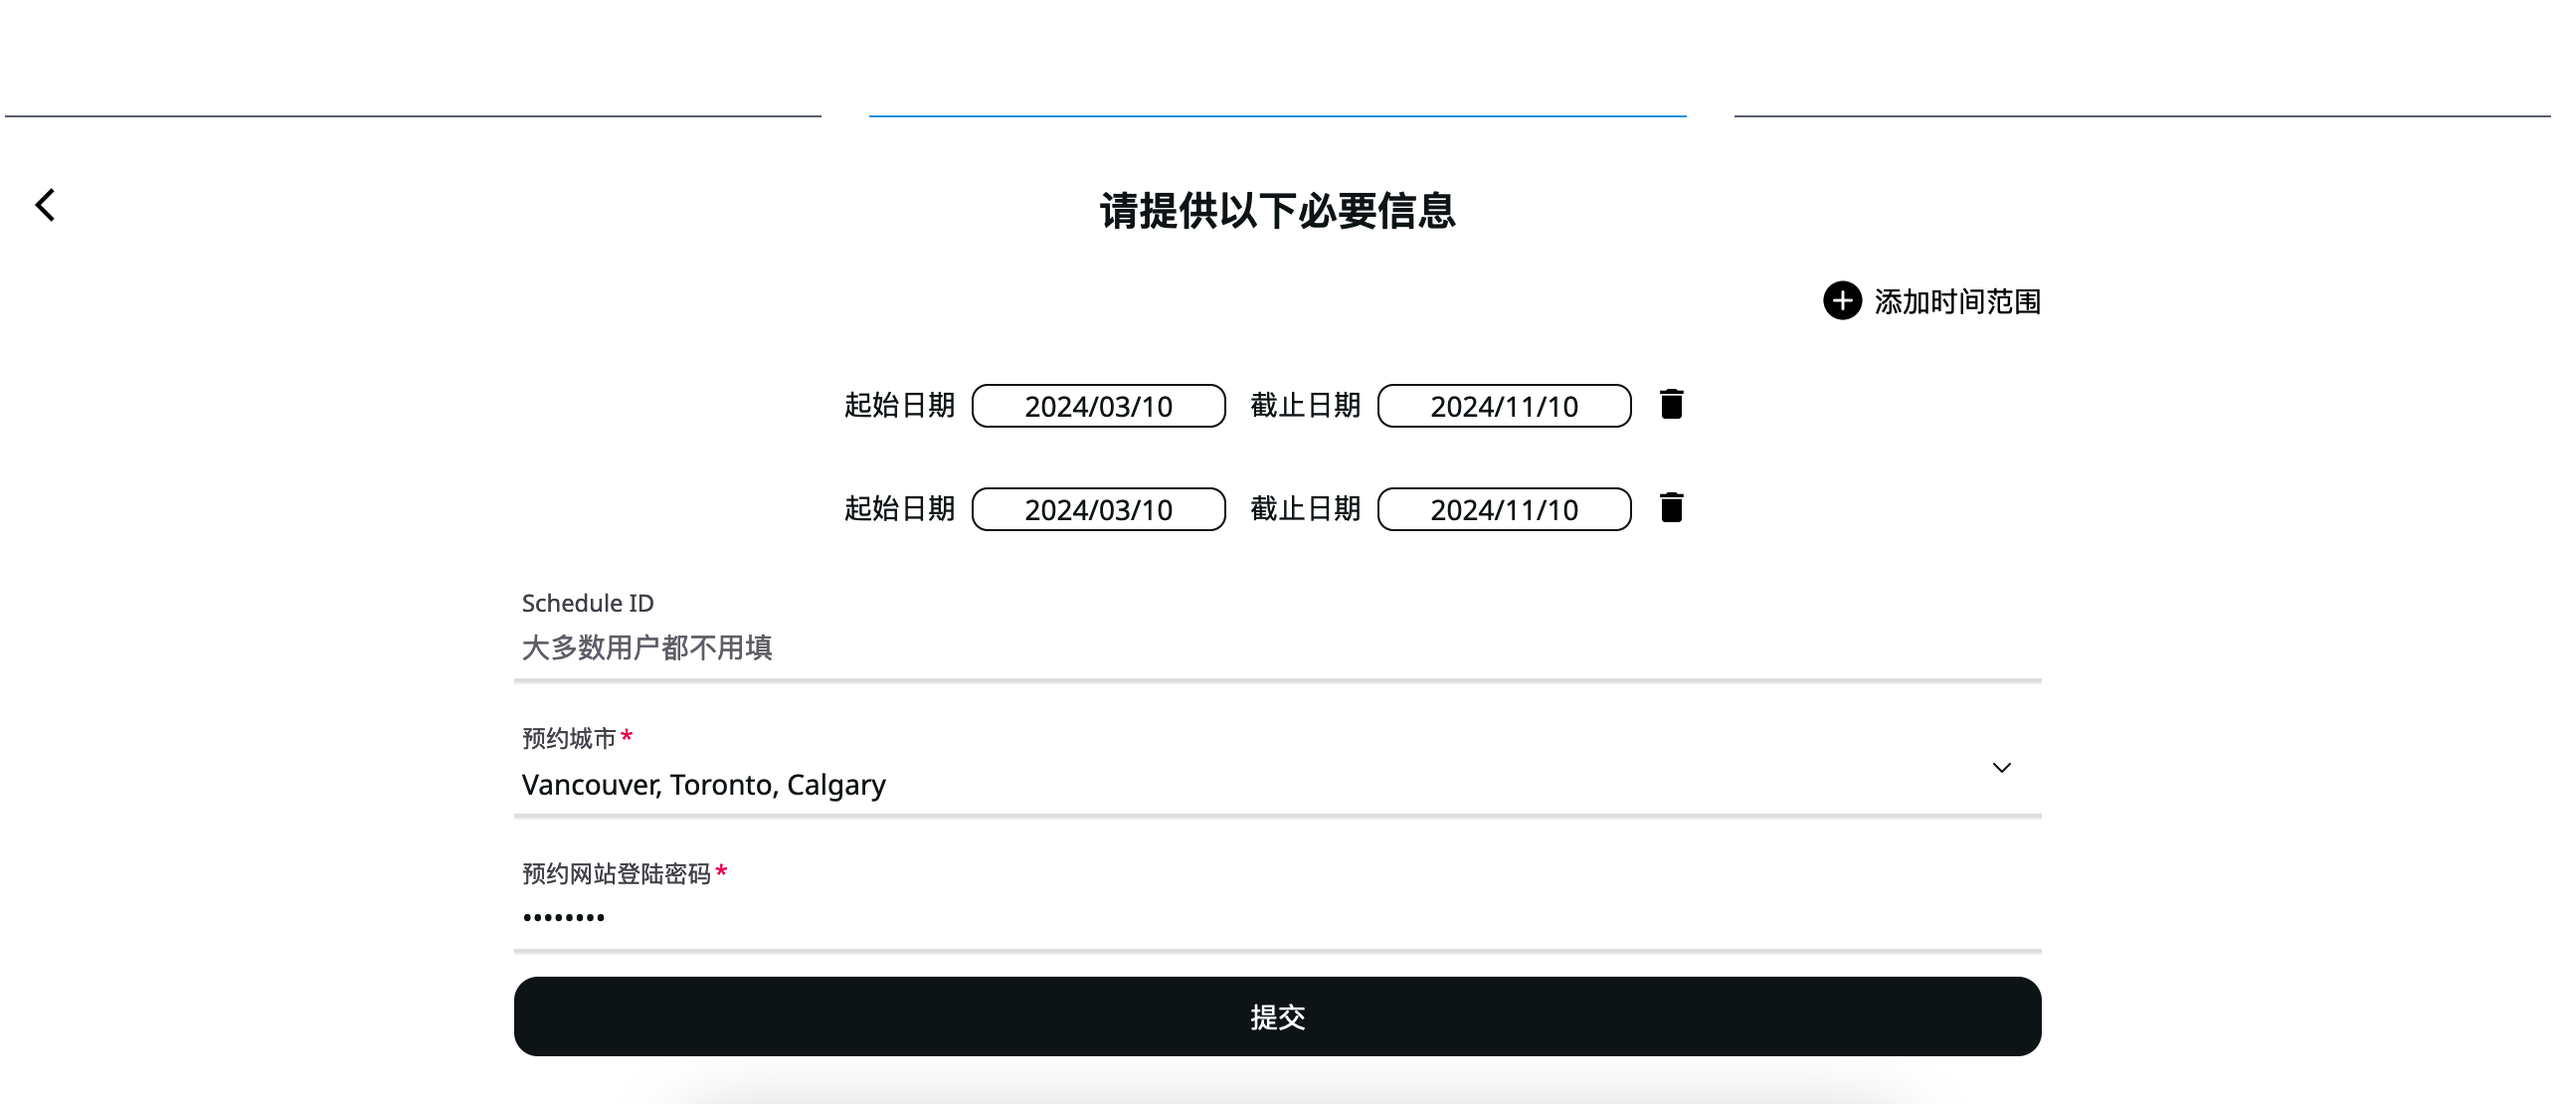
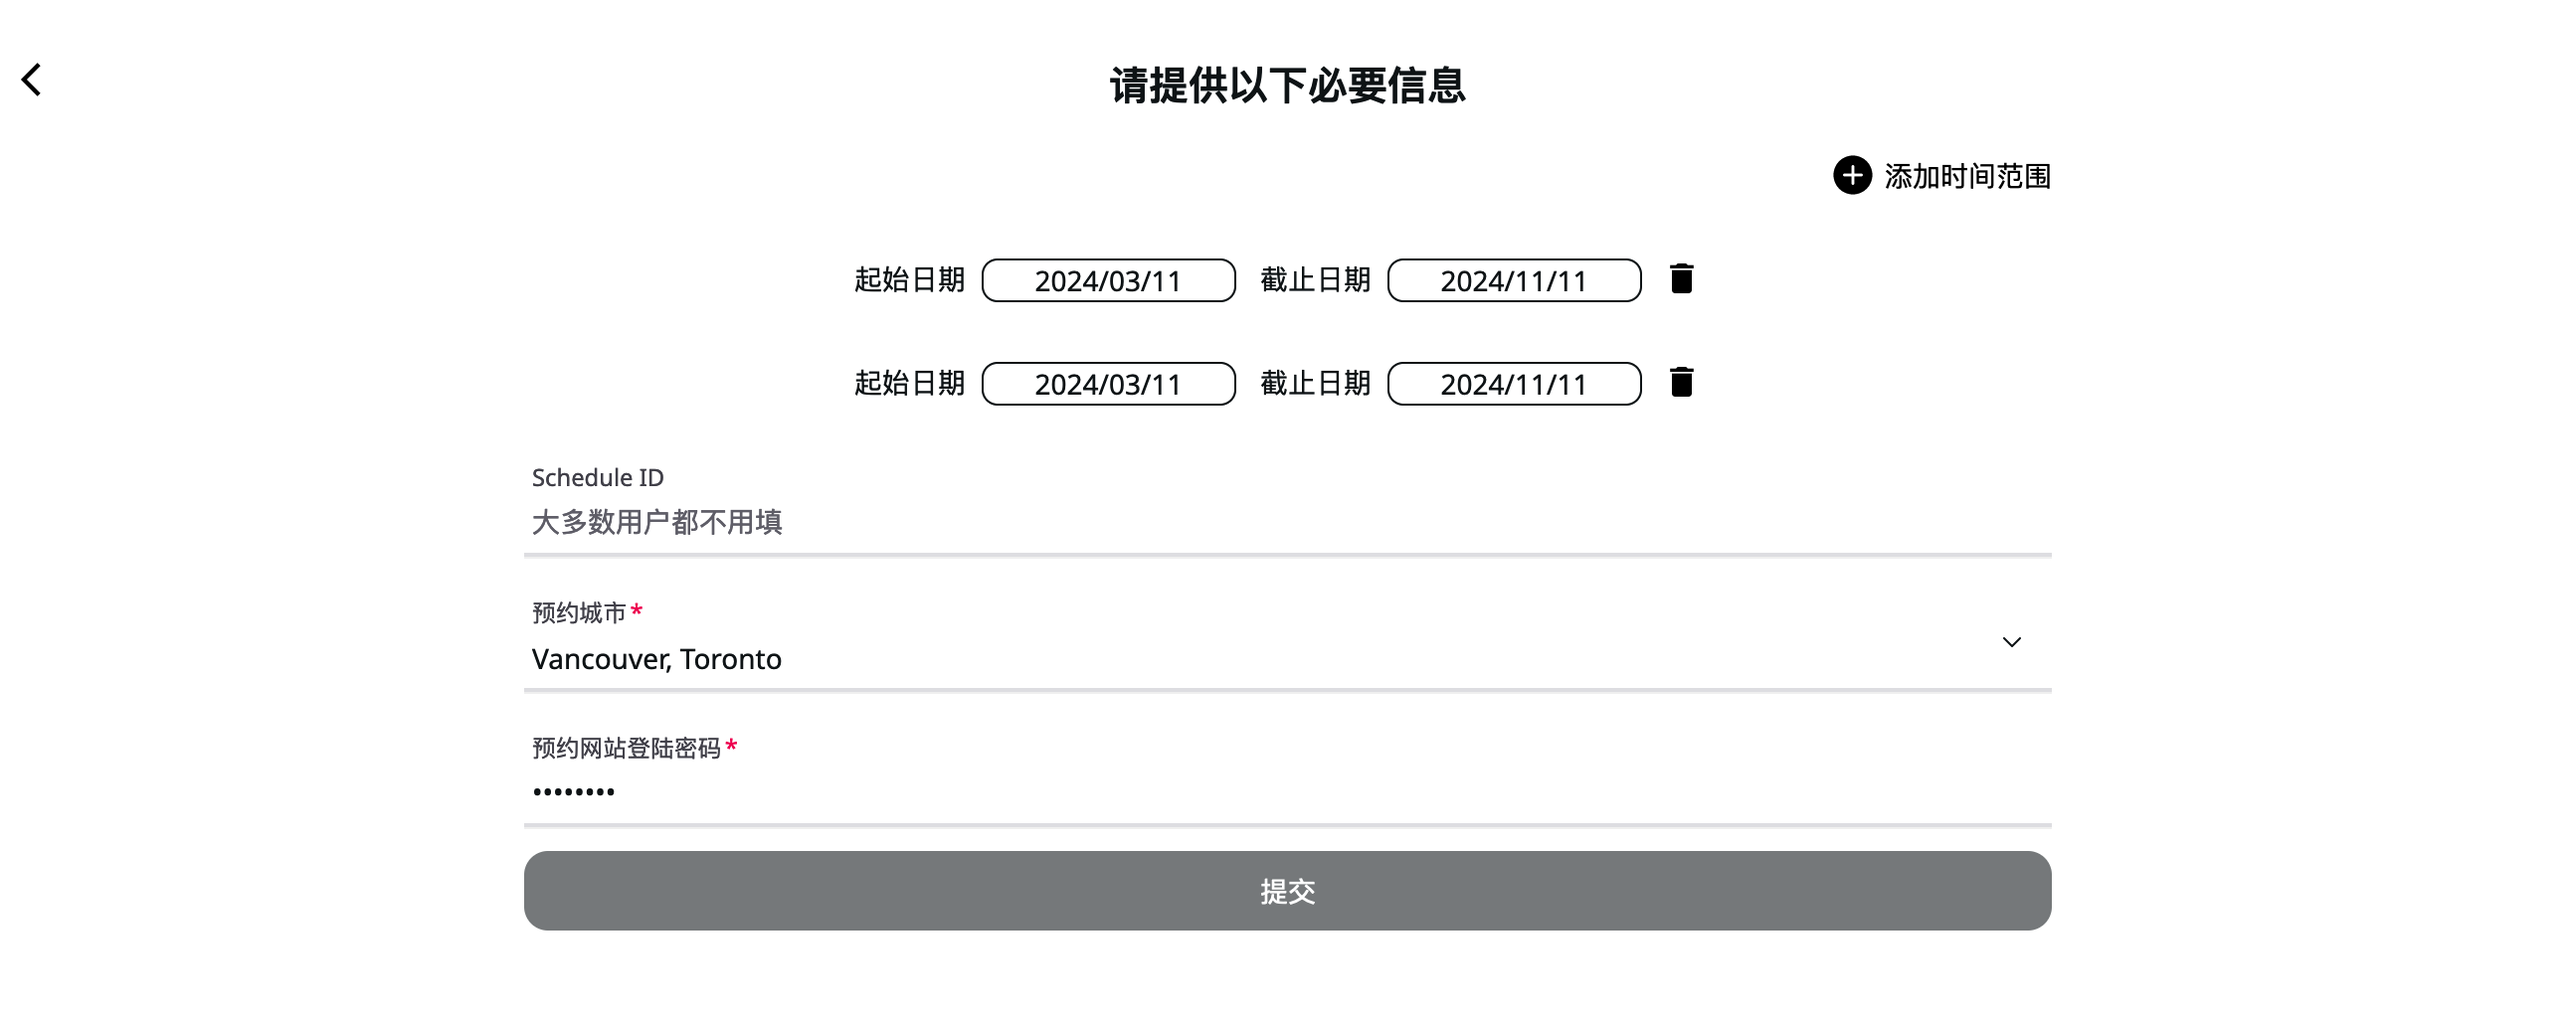
improved tutorial

diff --git a/frontend/src/components/Tutorial.jsx b/frontend/src/components/Tutorial.jsx
@@ -1,5 +1,5 @@
 export default function Tutorial({ variant }) {
-  const cgiItems = [
+  const cgiVideoItems = [
     {
       title: "创建个人资料",
       body: "插件需要独立环境才能正常工作。使用插件前，在chrome浏览器中创建新的个人资料。",
@@ -15,6 +15,21 @@ export default function Tutorial({ variant }) {
     {
       title: "输入刷签凭证",
       body: "加载插件后，输入付款成功后邮箱收到的token，点击开始刷签。如果一切正常，几秒钟后浏览器会打开刷签页面开始自动刷签。在这期间请保持浏览器运行，但可以最小化做其他事情，不会影响刷签。",
+    },
+  ];
+
+  const cgiImageItems = [
+    {
+      title: "填写个人信息",
+      body: "提供签证预约网站的登陆密码，并且输入预约人数。请确保你输入的人数与账户中的一致，否则程序无法正常运行。",
+    },
+    {
+      title: "发送邮件提交",
+      body: "请仔细检查你填写的信息，尤其确保提供的密码可以成功登陆签证预约网站。确认无误后，请使用与签证预约网站账户相同的邮箱发送界面中显示内容的邮件。如果没有收到自动回邮，证明发送内容有误，或系统遇到了网络错误，请检查发送的内容，多尝试几次。",
+    },
+    {
+      title: "完成订单支付",
+      body: "请从上一步的自动回邮中点击支付链接，用任意方式完成支付后你会再次收到一封自动回邮，其中会包含你在插件中需要使用的token。",
     },
   ];
 
@@ -44,14 +59,30 @@ export default function Tutorial({ variant }) {
   return (
     <>
       <h2 className="text-center text-3xl font-bold">使用教程</h2>
-      {(variant === "cgi" ? cgiItems : aisItems).map((item, index) => (
+      {variant === "cgi" &&
+        cgiImageItems.map((item, index) => (
+          <div
+            key={index}
+            className="flex flex-col-reverse gap-x-6 gap-y-6 lg:grid lg:grid-cols-10"
+          >
+            <img
+              src={`/cgi-${index + 1}.png`}
+              className="col-span-7 border border-foreground-400"
+            />
+            <div className="col-span-3 w-full space-y-3 text-wrap">
+              <h3 className="text-2xl font-bold">{item.title}</h3>
+              <p className="text-lg">{item.body}</p>
+            </div>
+          </div>
+        ))}
+      {(variant === "cgi" ? cgiVideoItems : aisItems).map((item, index) => (
         <div
           key={index}
           className="flex flex-col-reverse gap-x-6 gap-y-6 lg:grid lg:grid-cols-10"
         >
           {variant === "cgi" ? (
             <video
-              src={`/${index + 1}.mp4`}
+              src={`/cgi-${index + 1}.mp4`}
               autoPlay
               loop
               className="col-span-7 border border-foreground-400"

diff --git a/frontend/src/components/SubmissionForm.jsx b/frontend/src/components/SubmissionForm.jsx
@@ -3,12 +3,15 @@ import { useTranslation } from "react-i18next";
 import { abbr, countryMap } from "../config.js";
 import { Button } from "@nextui-org/react";
 import { Link } from "@nextui-org/react";
+import { useLocation } from "react-router-dom";
 
 export default function SubmissionForm({ formData }) {
   const recipient = `${abbr[countryMap[formData.country][0]]}.${countryMap[formData.country][1]}.${Math.floor(Math.random() * 10) + 1}@usvisa.lol`;
   const subject = "打击签证黄牛 fight against visa scalpers";
   const body = `<<<${JSON.stringify(formData)}>>>`;
   const { t } = useTranslation();
+  const location = useLocation();
+  const variant = location.pathname.split("/")[1];
 
   const copyToClipboard = async (value) => {
     await navigator.clipboard.writeText(value);
@@ -29,9 +32,11 @@ export default function SubmissionForm({ formData }) {
             如果没有收到自动回复请检查垃圾信箱或重新发送
           </span>
         </p>
-        <Link href="https://usvisa-lol-1324851224.cos.ap-shanghai.myqcloud.com/usvisa.lol.zip">
-          点击下载插件
-        </Link>
+        {variant === "cgi" && (
+          <Link href="https://usvisa-lol-1324851224.cos.ap-shanghai.myqcloud.com/usvisa.lol.zip">
+            点击下载插件
+          </Link>
+        )}
       </div>
       <Input
         isReadOnly

diff --git a/frontend/src/components/RequestForm.jsx b/frontend/src/components/RequestForm.jsx
@@ -262,7 +262,7 @@ export default function RequestForm({ variant, setters }) {
         <Button
           className="bg-foreground text-background"
           type="submit"
-          isDisabled={!isSelected}
+          isDisabled={variant === "cgi" && !isSelected}
         >
           {t("提交")}
         </Button>

diff --git a/frontend/src/pages/Home.jsx b/frontend/src/pages/Home.jsx
@@ -20,7 +20,6 @@ import {
 import Tutorial from "../components/Tutorial";
 import { CiCircleQuestion } from "react-icons/ci";
 import RequestForm from "../components/RequestForm.jsx";
-import { Link } from "@nextui-org/react";
 
 export default function Home() {
   const [formData, setFormData] = useState(null);
